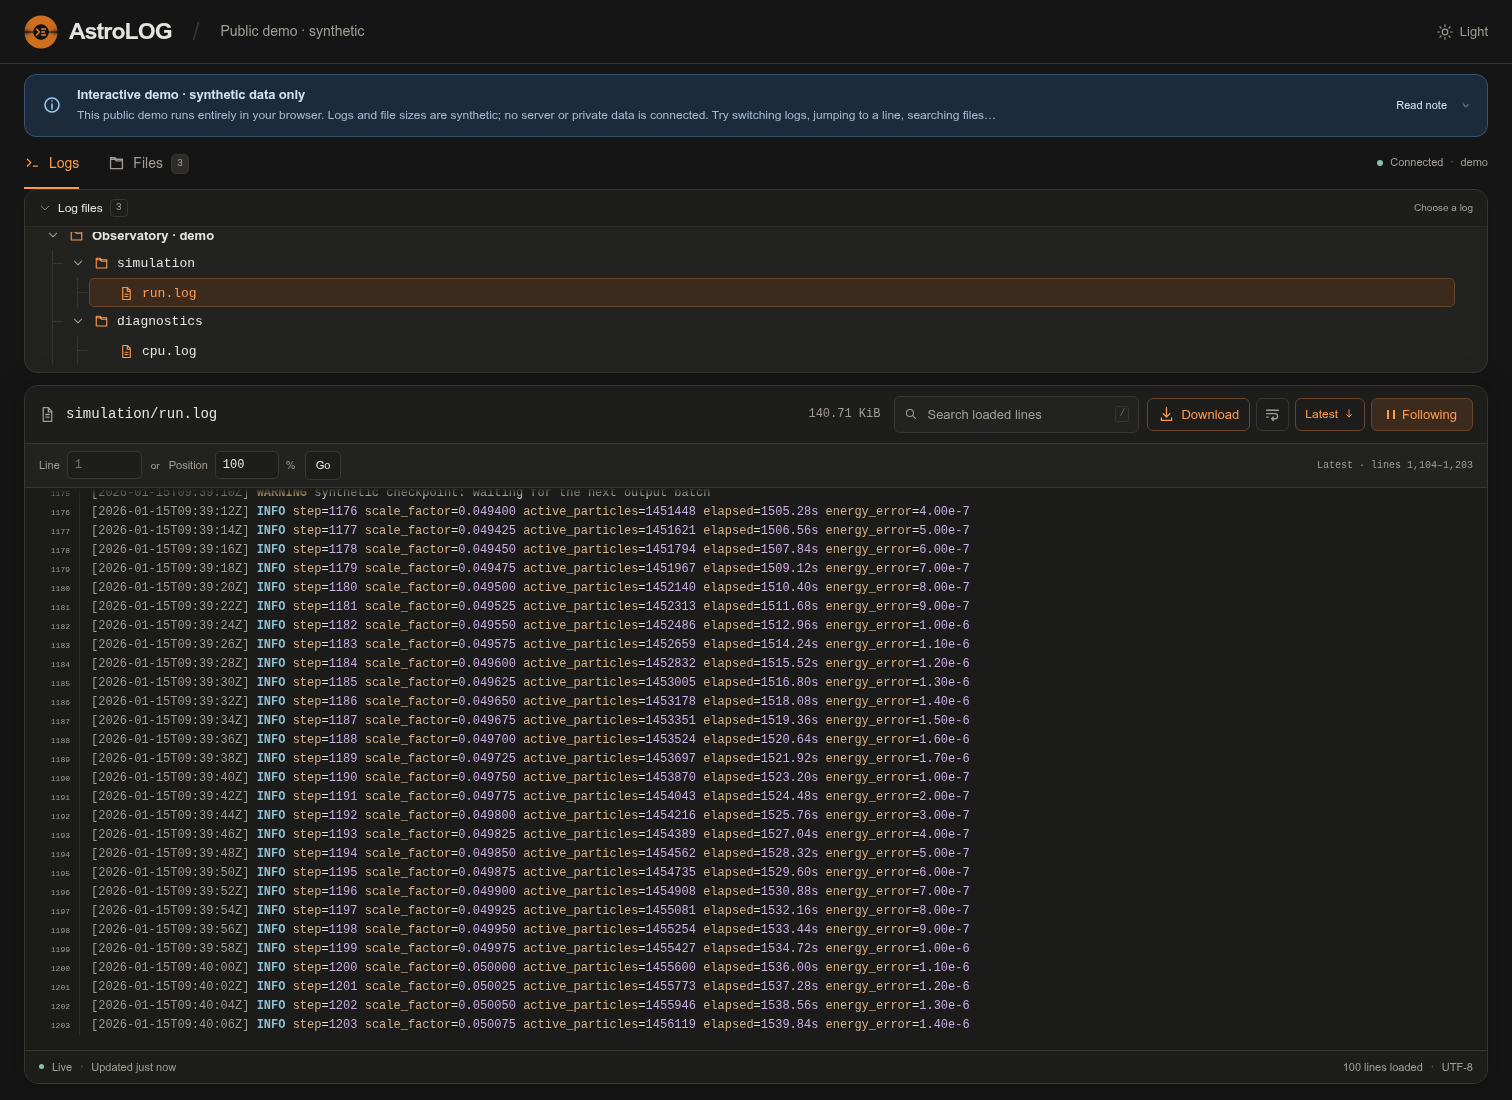
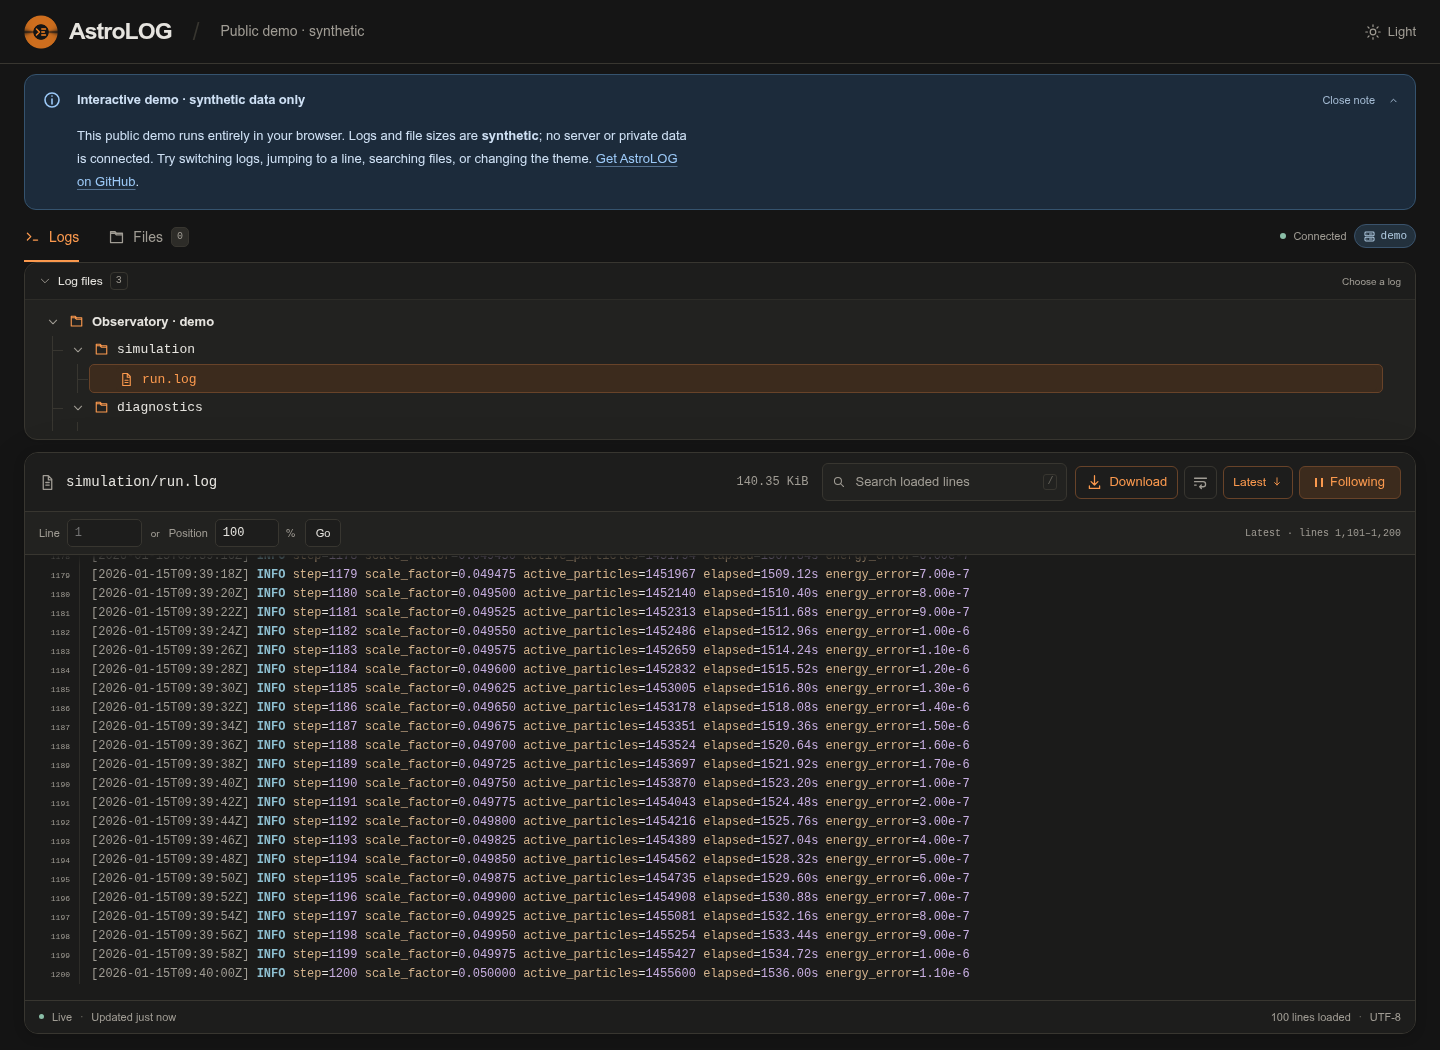
Show machine names in distinct rounded server badges

Changed region(s): [[0.0, 0.0, 1.0, 0.9752], [0.875, 0.9448, 0.9688, 0.9752]]

diff --git a/docs/index.html b/docs/index.html
@@ -53,7 +53,7 @@
         </button>
         <div id="announcement-body" class="markdown-body" hidden></div>
       </section>
-      <div class="workspace-navigation"><nav class="tabs" role="tablist" aria-label="Workspace views"><button class="tab active" id="logs-tab" type="button" role="tab" aria-controls="logs-panel" aria-selected="true"><svg viewBox="0 0 20 20" aria-hidden="true"><path d="m4 5 4 4-4 4m7 0h5"/></svg>Logs</button><button class="tab" id="inventory-tab" type="button" role="tab" aria-controls="inventory-panel" aria-selected="false"><svg viewBox="0 0 20 20" aria-hidden="true"><path d="M3 5h5l2 2h7v9H3Zm0 0V3h5l2 2h7v2"/></svg>Files<span class="tab-count" id="inventory-count">—</span></button></nav><span class="connection-state"><span class="status-dot" id="connection-dot"></span><span id="connection-label">Connecting</span><span id="connection-server" class="connection-server" hidden></span></span></div>
+      <div class="workspace-navigation"><nav class="tabs" role="tablist" aria-label="Workspace views"><button class="tab active" id="logs-tab" type="button" role="tab" aria-controls="logs-panel" aria-selected="true"><svg viewBox="0 0 20 20" aria-hidden="true"><path d="m4 5 4 4-4 4m7 0h5"/></svg>Logs</button><button class="tab" id="inventory-tab" type="button" role="tab" aria-controls="inventory-panel" aria-selected="false"><svg viewBox="0 0 20 20" aria-hidden="true"><path d="M3 5h5l2 2h7v9H3Zm0 0V3h5l2 2h7v2"/></svg>Files<span class="tab-count" id="inventory-count">—</span></button></nav><span class="connection-state"><span class="status-dot" id="connection-dot"></span><span id="connection-label">Connecting</span><span id="connection-server" class="connection-server" hidden><svg viewBox="0 0 20 20" aria-hidden="true"><rect x="3" y="3" width="14" height="6" rx="1.5"/><rect x="3" y="11" width="14" height="6" rx="1.5"/><path d="M6 6h.01M6 14h.01M10 6h4M10 14h4"/></svg><span class="visually-hidden">Server: </span><span id="connection-server-name" class="connection-server-name"></span></span></span></div>
 
       <section class="viewer-layout" id="logs-panel" role="tabpanel" aria-labelledby="logs-tab">
         <div class="explorer-section explorer-surface" id="log-explorer-surface"><div class="explorer-header"><button type="button" id="log-explorer-toggle" class="explorer-toggle" aria-expanded="true" aria-controls="log-explorer-region"><svg viewBox="0 0 20 20" aria-hidden="true"><path d="m7 4 6 6-6 6"/></svg><span>Log files</span><span class="explorer-file-count" id="log-explorer-count"></span></button><span class="explorer-hint">Choose a log</span></div><div id="log-explorer-region" class="explorer-region"><nav id="log-explorer" class="log-explorer navigation-tree" aria-label="Log files"></nav></div></div>

diff --git a/web/index.html b/web/index.html
@@ -51,7 +51,7 @@
         </button>
         <div id="announcement-body" class="markdown-body" hidden></div>
       </section>
-      <div class="workspace-navigation"><nav class="tabs" role="tablist" aria-label="Workspace views"><button class="tab active" id="logs-tab" type="button" role="tab" aria-controls="logs-panel" aria-selected="true"><svg viewBox="0 0 20 20" aria-hidden="true"><path d="m4 5 4 4-4 4m7 0h5"/></svg>Logs</button><button class="tab" id="inventory-tab" type="button" role="tab" aria-controls="inventory-panel" aria-selected="false"><svg viewBox="0 0 20 20" aria-hidden="true"><path d="M3 5h5l2 2h7v9H3Zm0 0V3h5l2 2h7v2"/></svg>Files<span class="tab-count" id="inventory-count">—</span></button></nav><span class="connection-state"><span class="status-dot" id="connection-dot"></span><span id="connection-label">Connecting</span><span id="connection-server" class="connection-server" hidden></span></span></div>
+      <div class="workspace-navigation"><nav class="tabs" role="tablist" aria-label="Workspace views"><button class="tab active" id="logs-tab" type="button" role="tab" aria-controls="logs-panel" aria-selected="true"><svg viewBox="0 0 20 20" aria-hidden="true"><path d="m4 5 4 4-4 4m7 0h5"/></svg>Logs</button><button class="tab" id="inventory-tab" type="button" role="tab" aria-controls="inventory-panel" aria-selected="false"><svg viewBox="0 0 20 20" aria-hidden="true"><path d="M3 5h5l2 2h7v9H3Zm0 0V3h5l2 2h7v2"/></svg>Files<span class="tab-count" id="inventory-count">—</span></button></nav><span class="connection-state"><span class="status-dot" id="connection-dot"></span><span id="connection-label">Connecting</span><span id="connection-server" class="connection-server" hidden><svg viewBox="0 0 20 20" aria-hidden="true"><rect x="3" y="3" width="14" height="6" rx="1.5"/><rect x="3" y="11" width="14" height="6" rx="1.5"/><path d="M6 6h.01M6 14h.01M10 6h4M10 14h4"/></svg><span class="visually-hidden">Server: </span><span id="connection-server-name" class="connection-server-name"></span></span></span></div>
 
       <section class="viewer-layout" id="logs-panel" role="tabpanel" aria-labelledby="logs-tab">
         <div class="explorer-section explorer-surface" id="log-explorer-surface"><div class="explorer-header"><button type="button" id="log-explorer-toggle" class="explorer-toggle" aria-expanded="true" aria-controls="log-explorer-region"><svg viewBox="0 0 20 20" aria-hidden="true"><path d="m7 4 6 6-6 6"/></svg><span>Log files</span><span class="explorer-file-count" id="log-explorer-count"></span></button><span class="explorer-hint">Choose a log</span></div><div id="log-explorer-region" class="explorer-region"><nav id="log-explorer" class="log-explorer navigation-tree" aria-label="Log files"></nav></div></div>

diff --git a/docs/styles.css b/docs/styles.css
@@ -26,6 +26,9 @@
   --token-success: #166534;
   --token-number: #5b21b6;
   --token-key: #9a3412;
+  --machine-bg: #e7eff8;
+  --machine-border: #cad8e9;
+  --machine-text: #315477;
   --mono: "SFMono-Regular", Consolas, "Liberation Mono", Menlo, monospace;
   --sans: Inter, -apple-system, BlinkMacSystemFont, "Segoe UI", sans-serif;
 }
@@ -56,6 +59,9 @@ html[data-theme="dark"] {
   --token-success: #98c6a6;
   --token-number: #c8afe2;
   --token-key: #d4b38c;
+  --machine-bg: #23313d;
+  --machine-border: #3a536c;
+  --machine-text: #afc9df;
 }
 * { box-sizing: border-box; }
 html { height: 100%; scrollbar-color: var(--border) transparent; scrollbar-width: thin; }
@@ -93,8 +99,10 @@ svg { width: 19px; height: 19px; fill: none; stroke: currentColor; stroke-width:
 .tab-count { font-size: 10px; font-family: var(--mono); line-height: 1.4; padding: 2px 5px; background: var(--border-soft); border: 1px solid var(--border); color: var(--muted); border-radius: 5px; }
 .connection-state { display: flex; align-items: center; gap: 7px; min-width: 0; color: var(--muted); font-size: 11px; white-space: nowrap; }
 #connection-label { flex: none; }
-.connection-server { min-width: 0; max-width: 180px; overflow: hidden; text-overflow: ellipsis; }
-.connection-server::before { content: "·"; margin-right: 7px; color: var(--dim); }
+.connection-server { display: inline-flex; align-items: center; gap: 5px; min-width: 0; max-width: 180px; min-height: 24px; padding: 3px 8px; border: 1px solid var(--machine-border); border-radius: 999px; background: var(--machine-bg); color: var(--machine-text); font: 11px/1.35 var(--mono); }
+.connection-server svg { width: 13px; height: 13px; flex: none; stroke-width: 1.6; }
+.connection-server-name { min-width: 0; overflow: hidden; text-overflow: ellipsis; }
+@media (max-width: 480px) { .connection-server { gap: 4px; min-height: 22px; padding: 2px 6px; font-size: 10px; }.connection-server svg { width: 12px; height: 12px; } }
 .status-dot { width: 6px; height: 6px; background: var(--dim); border-radius: 50%; display: inline-block; flex: none; }
 .status-dot.live { background: var(--green); }
 .status-dot.warning { background: var(--warning); }

diff --git a/web/styles.css b/web/styles.css
@@ -26,6 +26,9 @@
   --token-success: #166534;
   --token-number: #5b21b6;
   --token-key: #9a3412;
+  --machine-bg: #e7eff8;
+  --machine-border: #cad8e9;
+  --machine-text: #315477;
   --mono: "SFMono-Regular", Consolas, "Liberation Mono", Menlo, monospace;
   --sans: Inter, -apple-system, BlinkMacSystemFont, "Segoe UI", sans-serif;
 }
@@ -56,6 +59,9 @@ html[data-theme="dark"] {
   --token-success: #98c6a6;
   --token-number: #c8afe2;
   --token-key: #d4b38c;
+  --machine-bg: #23313d;
+  --machine-border: #3a536c;
+  --machine-text: #afc9df;
 }
 * { box-sizing: border-box; }
 html { height: 100%; scrollbar-color: var(--border) transparent; scrollbar-width: thin; }
@@ -93,8 +99,10 @@ svg { width: 19px; height: 19px; fill: none; stroke: currentColor; stroke-width:
 .tab-count { font-size: 10px; font-family: var(--mono); line-height: 1.4; padding: 2px 5px; background: var(--border-soft); border: 1px solid var(--border); color: var(--muted); border-radius: 5px; }
 .connection-state { display: flex; align-items: center; gap: 7px; min-width: 0; color: var(--muted); font-size: 11px; white-space: nowrap; }
 #connection-label { flex: none; }
-.connection-server { min-width: 0; max-width: 180px; overflow: hidden; text-overflow: ellipsis; }
-.connection-server::before { content: "·"; margin-right: 7px; color: var(--dim); }
+.connection-server { display: inline-flex; align-items: center; gap: 5px; min-width: 0; max-width: 180px; min-height: 24px; padding: 3px 8px; border: 1px solid var(--machine-border); border-radius: 999px; background: var(--machine-bg); color: var(--machine-text); font: 11px/1.35 var(--mono); }
+.connection-server svg { width: 13px; height: 13px; flex: none; stroke-width: 1.6; }
+.connection-server-name { min-width: 0; overflow: hidden; text-overflow: ellipsis; }
+@media (max-width: 480px) { .connection-server { gap: 4px; min-height: 22px; padding: 2px 6px; font-size: 10px; }.connection-server svg { width: 12px; height: 12px; } }
 .status-dot { width: 6px; height: 6px; background: var(--dim); border-radius: 50%; display: inline-block; flex: none; }
 .status-dot.live { background: var(--green); }
 .status-dot.warning { background: var(--warning); }

diff --git a/docs/app.js b/docs/app.js
@@ -143,8 +143,8 @@
   }
   function renderServerName() {
     const name = state.config?.display?.server_name || "";
-    $("connection-server").textContent = name;
-    $("connection-server").title = name;
+    $("connection-server-name").textContent = name;
+    $("connection-server").title = name ? `Server: ${name}` : "";
     $("connection-server").hidden = !name;
   }
   function connection(connected, label) {

diff --git a/web/app.js b/web/app.js
@@ -143,8 +143,8 @@
   }
   function renderServerName() {
     const name = state.config?.display?.server_name || "";
-    $("connection-server").textContent = name;
-    $("connection-server").title = name;
+    $("connection-server-name").textContent = name;
+    $("connection-server").title = name ? `Server: ${name}` : "";
     $("connection-server").hidden = !name;
   }
   function connection(connected, label) {
